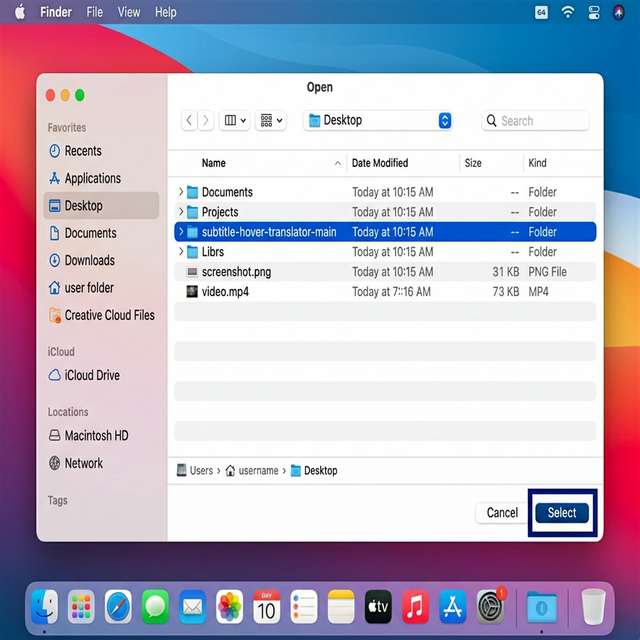
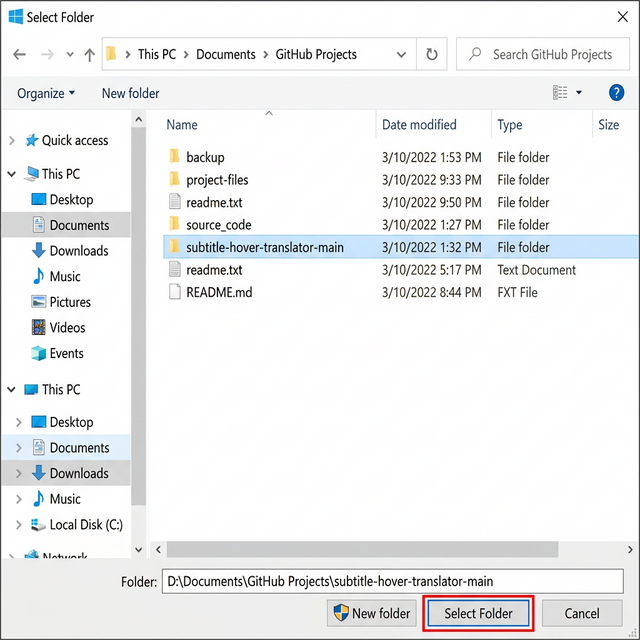
fix(ui): revert layout-breaking css rule and update folder selection image to generic windows

diff --git a/src/extension/popup.css b/src/extension/popup.css
@@ -116,8 +116,8 @@ html {
 
 body {
   margin: 0;
-  width: 100% !important;
-  max-width: 400px !important;
+  width: 400px !important;
+  min-width: 400px !important;
   min-height: 640px !important;
   overflow-x: hidden !important;
   font-family: "SF Pro Text", "Avenir Next", "Segoe UI", "Inter", sans-serif;
